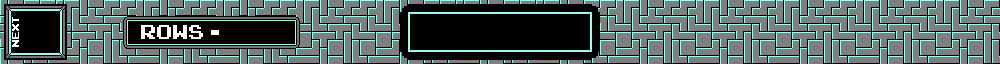
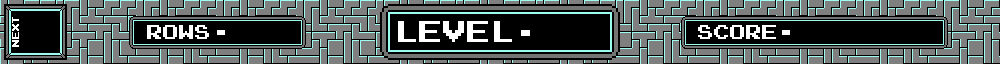
finish top bar, detail scoring basics

diff --git a/design/points.md b/design/points.md
@@ -1,0 +1,4 @@
+1 line: 40 * (n + 1)
+2 lines: 100 * (n + 1)
+3 lines: 300 * (n + 1)
+4 lines: 1200 * (n + 1)
